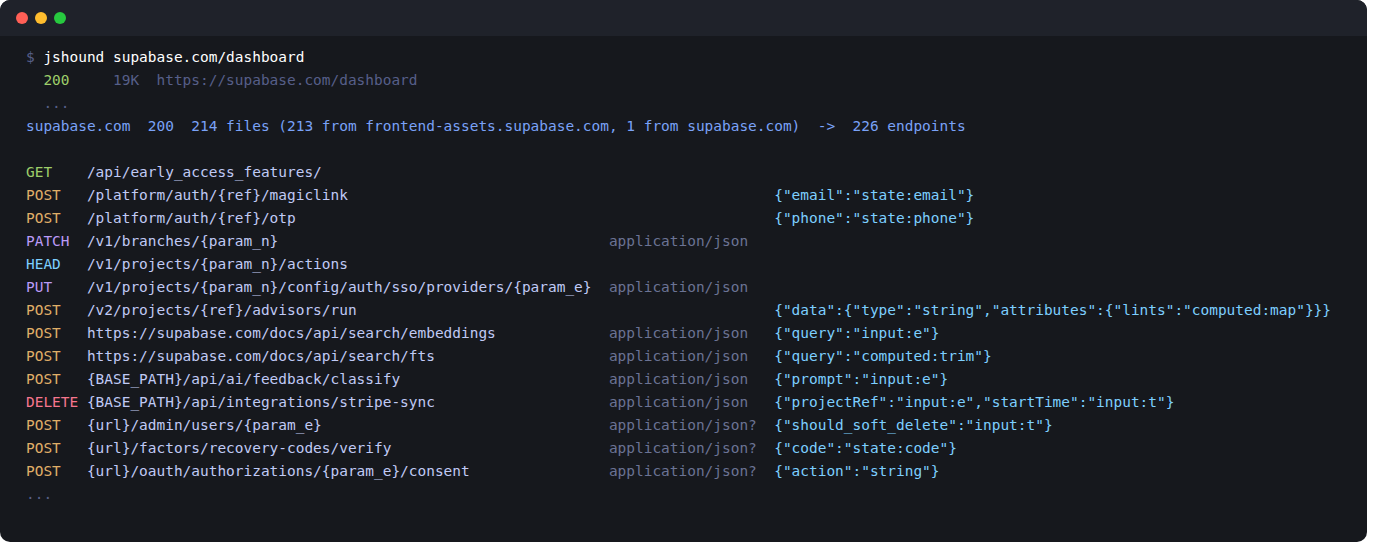
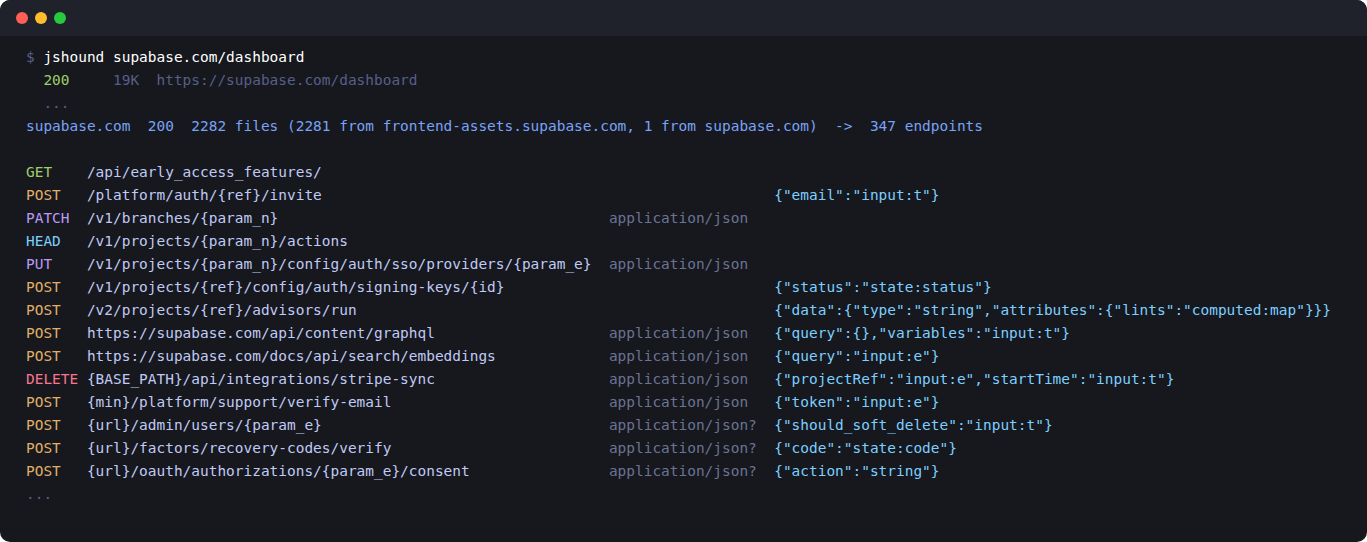
README, demo and social card from today's run, and the 48-app benchmark
The README walkthrough, the terminal graphic and docs/social-preview.png (for the repository's
social card) all come from one run of `jshound supabase.com/dashboard` with the code as committed:
2,282 files, 2,210 of them found by following chunk tables and imports, 347 requests. Yesterday's
showed 214 files and 226.

bench/RESULTS.md gains the end-to-end run over all 48 apps in bench/targets.txt: 46 read, 41,357
files, 12,848 requests, 5,317 with a body, 3,498 GraphQL operations, 37 unreachable chunks, no
limit reached. The README states the two headline results in four lines, with links: 89% recall
against Grafana's own OpenAPI spec where jsluice and LinkFinder reach 44%, and the 48-app totals.

bench/live.py records what each run wrote (bodies, GraphQL, full URLs), and the demo graphic skips
rows whose verb is unknown when it picks a sample.

Changed region(s): [[0.0, 0.0, 1.0, 1.0], [0.0, 0.2066, 0.7067, 0.2657], [0.0307, 0.0886, 0.3072, 0.1771]]

diff --git a/docs/make_demo_svg.py b/docs/make_demo_svg.py
@@ -79,7 +79,9 @@ def main():
         return 7 + len(f[1]) + 2 + len(f[2]) + 2 + len(f[3]) <= a.max_width
 
     def dull(f):
-        return "/_next" in f[1] or f[1].count("/") < 3
+        # A row whose verb is not known is in the output, honestly, but a sample of what the tool reads
+        # should show what it reads.
+        return "/_next" in f[1] or f[1].count("/") < 3 or f[0] == "UNKNOWN"
 
     withbody = [f for f in table if f[3].startswith('{"') and fits(f) and not dull(f)]
     plain = [f for f in table if not f[3] and fits(f) and not dull(f)]

diff --git a/README.md b/README.md
@@ -3,7 +3,7 @@
 Recover every request a web app is built to make from the JavaScript it ships: method, URL, body,
 content type and headers.
 
-![jshound reading supabase.com/dashboard: 214 files in, 226 requests out, each with its body](docs/demo.svg)
+![jshound reading supabase.com/dashboard: 2,282 files in, 347 requests out, each with its body](docs/demo.svg)
 
 A single page app hands its whole API client to the browser. The URL, the method, the field names it
 sends and the headers it attaches are all in the bundle, so if the bundle can be read properly the
@@ -34,26 +34,28 @@ Each request it makes is printed as it goes, with its status:
 ```console
 $ jshound supabase.com/dashboard
   200     19K  https://supabase.com/dashboard
-  200    109K  https://frontend-assets.supabase.com/studio/1ee88e0fee29/_next/static/chunks/0c0hxoamwjsbw.js?dpl=dpl_9C2bDPvRyr2U75ouX1tQDMb1R81V
+  200     29K  https://frontend-assets.supabase.com/studio/8617532ae1a4/_next/static/chunks/37zx22xp9wy37.js?dpl=dpl_ESaSquAbnWrJqbvvyRh7F1qj5wWH
   ...
+  404     26K  https://frontend-assets.supabase.com/studio/8617532ae1a4/_next/static/chunks/dist/cli/index.js
   404     16K  https://supabase.com/dist/cli/index.js
   ...
-supabase.com  200  214 files (213 from frontend-assets.supabase.com, 1 from supabase.com)  ->  226 endpoints
+supabase.com  200  2282 files (2281 from frontend-assets.supabase.com, 1 from supabase.com)  ->  347 endpoints
               1 declared chunk(s) could not be fetched
               -> .jshound/supabase.com/endpoints.txt  (also requests.jsonl, urls.txt, openapi.json)
 ```
 
-213 of the 214 files came from `frontend-assets.supabase.com`, which is where the build lives and
-which nobody would put in a scope file. The 404 is a chunk the build declares that neither host
-served, and the summary says so rather than skipping it. Then every request, one per line (five of the
-226 here):
+2,281 of the 2,282 files came from `frontend-assets.supabase.com`, which is where the build lives
+and which nobody would put in a scope file. The page itself names 71 of them; the other 2,210 are
+lazy chunks and modules, found by following every chunk table and import until a round turned up
+nothing new. The two 404s are one chunk the build declares, tried on both hosts, and the summary
+counts it rather than skipping it. Then every request, one per line (five of the 347 here):
 
 ```
-POST   /platform/auth/{ref}/otp                                        {"phone":"state:phone"}
-POST   https://supabase.com/docs/api/search/fts     application/json   {"query":"computed:trim"}
-DELETE {BASE_PATH}/api/integrations/stripe-sync     application/json   {"projectRef":"input:e","startTime":"input:t"}
-POST   {url}/factors/recovery-codes/verify          application/json?  {"code":"state:code"}
-POST   {graphql}                                    application/json   {"operationName":"saveConsents","variables":{"consents":"[NewCreateConsentInput]","consentMeta":"ConsentMeta","consentString":"ConsentString"}}
+POST   /platform/auth/{ref}/otp                                     {"phone":"state:phone"}
+POST   https://supabase.com/docs/api/search/fts  application/json   {"query":"computed:trim"}
+DELETE {BASE_PATH}/api/integrations/stripe-sync  application/json   {"projectRef":"input:e","startTime":"input:t"}
+POST   {url}/factors/recovery-codes/verify       application/json?  {"code":"state:code"}
+POST   {graphql}                                 application/json   {"operationName":"saveConsents","variables":{"consents":"[NewCreateConsentInput]","consentMeta":"ConsentMeta","consentString":"ConsentString"}}
 ```
 
 Several targets at once, or a list on stdin:
@@ -152,6 +154,15 @@ and checks the output above against it, so it cannot quietly stop being true.
 4. **Build the request from the call.** The method comes from the options object or the wrapper's
    default, the body from the object being serialised, the content type from a `FormData`, a
    `JSON.stringify` or an explicit header, and the headers from the client's own defaults.
+
+## How well it works
+
+Against Grafana's own published OpenAPI spec, jshound recovers 89% of the documented API paths from
+the JavaScript alone, with the right HTTP method on every one it matches. On the same files, jsluice
+and LinkFinder recover 44%. Run end to end against 48 public apps with nothing signed into, 46 of
+which let it in, it read 41,357 files and found 12,848 requests, 3,498 of them GraphQL operations.
+The method and every number are in [bench/RESULTS.md](bench/RESULTS.md), and a 30-second comparison
+you can run yourself is in [bench/COMPARISON.md](bench/COMPARISON.md).
 
 ## Scope
 

diff --git a/bench/RESULTS.md b/bench/RESULTS.md
@@ -92,3 +92,67 @@ the call, the sink it came from, and whether the path resolved fully or still co
   whole output; omitting it makes the tool refuse to start. It is built to crawl live URLs.
 - **A moving corpus.** Re-run it. If the numbers no longer hold, the document is wrong and should
   be fixed rather than defended.
+
+## 48 public apps, end to end
+
+Every app in `bench/targets.txt`, run on 2026-10-09 with the one command, from one machine, as
+`python3 bench/live.py bench/targets.txt --tag <tag>` reruns it. Nothing was signed into, so this
+is what a logged-out browser downloads. Sites change weekly; the method is the claim, not the digits.
+
+46 of 48 apps read: **41,357 files, 12,848 requests**, 5,317 of them with a
+body and 3,498 GraphQL operations. 37 declared chunks could not be fetched, no file failed to
+scan, and no limit was reached. Blocked: www.reddit.com (HTTP 403), www.tesla.com (Akamai).
+
+| app | files read | requests | with a body | GraphQL | time |
+|---|---:|---:|---:|---:|---:|
+| lovable.dev | 10,362 | 2,048 | 618 | 0 | 446s |
+| claude.ai | 2,920 | 1,623 | 299 | 1 | 331s |
+| play.grafana.org | 761 | 1,513 | 80 | 0 | 190s |
+| app.hex.tech | 1,448 | 1,332 | 1,227 | 1,217 | 218s |
+| us.posthog.com | 2,140 | 998 | 61 | 1 | 220s |
+| railway.com | 872 | 975 | 967 | 966 | 114s |
+| gitlab.com/explore | 1,394 | 825 | 660 | 622 | 497s |
+| app.twenty.com | 1,161 | 460 | 439 | 436 | 164s |
+| discord.com/app | 5,793 | 418 | 194 | 10 | 395s |
+| supabase.com/dashboard | 2,282 | 347 | 172 | 4 | 377s |
+| svelte.dev | 56 | 342 | 4 | 0 | 15s |
+| dashboard.clerk.com | 153 | 313 | 52 | 0 | 36s |
+| app.amplitude.com | 596 | 271 | 253 | 216 | 64s |
+| open.spotify.com | 166 | 144 | 0 | 0 | 72s |
+| demo.home-assistant.io | 1,031 | 132 | 11 | 0 | 170s |
+| www.dropbox.com | 6 | 116 | 8 | 0 | 52s |
+| coda.io | 26 | 109 | 40 | 0 | 34s |
+| retool.com | 45 | 94 | 2 | 0 | 14s |
+| chatgpt.com | 920 | 85 | 38 | 0 | 84s |
+| www.tldraw.com | 193 | 77 | 24 | 0 | 50s |
+| x.com | 2,125 | 76 | 32 | 0 | 137s |
+| meta.discourse.org | 167 | 69 | 18 | 0 | 59s |
+| app.cal.com | 84 | 68 | 9 | 0 | 30s |
+| github.com | 1,313 | 63 | 38 | 20 | 130s |
+| linear.app | 725 | 44 | 19 | 5 | 57s |
+| zapier.com/app/dashboard | 89 | 43 | 12 | 0 | 29s |
+| app.slack.com | 17 | 42 | 2 | 0 | 13s |
+| www.solidjs.com | 1,056 | 41 | 2 | 0 | 96s |
+| mixpanel.com | 684 | 41 | 2 | 0 | 63s |
+| nuxt.com | 195 | 28 | 11 | 0 | 53s |
+| www.figma.com | 48 | 22 | 7 | 0 | 22s |
+| vercel.com | 72 | 19 | 1 | 0 | 28s |
+| www.notion.so | 1,717 | 19 | 2 | 0 | 258s |
+| app.element.io | 12 | 12 | 1 | 0 | 21s |
+| www.loom.com | 76 | 9 | 2 | 0 | 29s |
+| excalidraw.com | 114 | 5 | 2 | 0 | 45s |
+| app.hubspot.com | 6 | 5 | 2 | 0 | 5s |
+| qwik.dev | 7 | 4 | 3 | 0 | 4s |
+| material.angular.dev | 119 | 4 | 0 | 0 | 16s |
+| webflow.com | 44 | 4 | 3 | 0 | 17s |
+| angular.dev | 199 | 3 | 0 | 0 | 51s |
+| remix.run | 113 | 1 | 0 | 0 | 8s |
+| astro.build | 9 | 1 | 0 | 0 | 2s |
+| emberjs.com | 8 | 1 | 0 | 0 | 16s |
+| sentry.io | 28 | 1 | 0 | 0 | 7s |
+| airtable.com | 5 | 1 | 0 | 0 | 13s |
+
+A small count is usually the page, not the tool: astro.build, emberjs.com and sentry.io's home
+pages are marketing sites that call almost nothing, and notion.so serves logged-out visitors a site
+whose code names only three of its app's `/api/v3` endpoints. Time is wall time on one machine and moves with its
+network; fetching is about two thirds of it.
